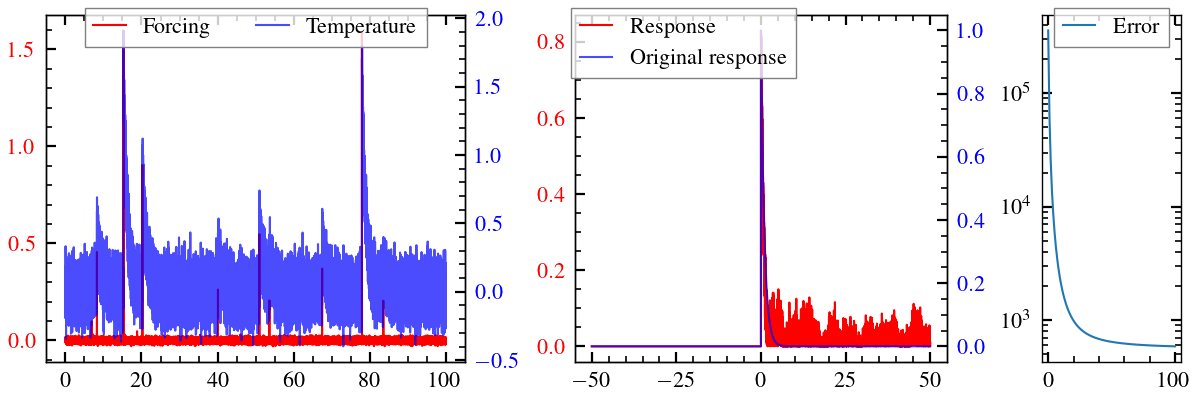
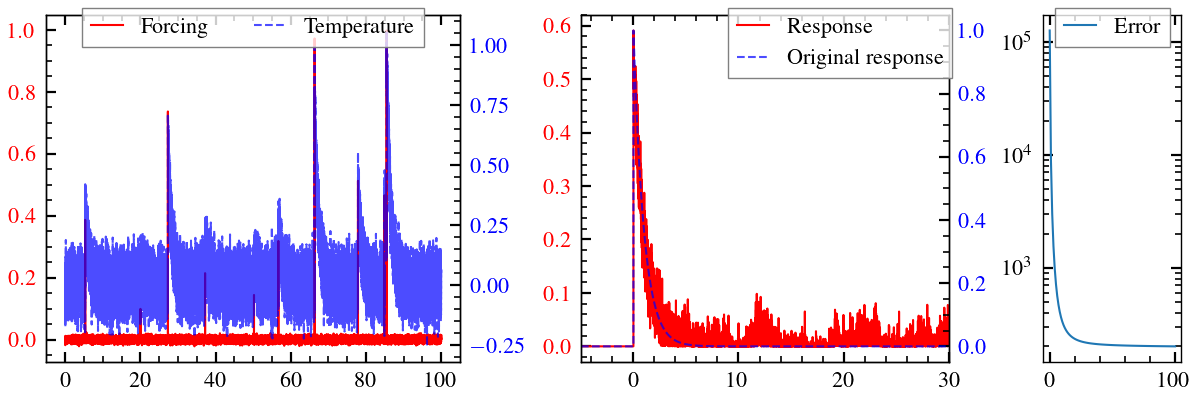
feat: update plots and add out-of-sync experiment

diff --git a/de-verify.md b/de-verify.md
@@ -16,6 +16,8 @@ iteration, to try to mask out what make deconvolving hard.
 ```python
 import de_verify
 exp = de_verify.Experiment
+seed = 20
+show = False
 ```
 
 ## A Clean Run
@@ -24,7 +26,7 @@ For our first experiment, we just create a forcing and corresponding temperature
 convolving with a response function. This of course works well.
 
 ```python
-exp().related_timeseries().deconvolve().combined_view()  # This one is easy!
+exp().related_timeseries(seed=seed).deconvolve().combined_view(save="v1", show=show)  # This one is easy!
 ```
 
 ![v1](https://github.com/engeir/hack-md-notes/raw/main/assets/pic/de-verify/v1.png)
@@ -36,10 +38,10 @@ same range in `y`), suddenly deconvolving become really hard!
 
 ```python
 # When the time series are flipped, it already become quite hard!
-exp().related_timeseries().flip().deconvolve().combined_view()
-exp().related_timeseries().flip().deconvolve(1000).combined_view()
-exp().related_timeseries().flip().vertical_shift(-2).deconvolve(1000).combined_view()
-exp().related_timeseries().flip().deconvolve(1000, scale_factor=10).combined_view()
+exp().related_timeseries(seed=seed).flip().deconvolve().combined_view(save="v2", show=show)
+exp().related_timeseries(seed=seed).flip().deconvolve(1000).combined_view(save="v3", show=show)
+exp().related_timeseries(seed=seed).flip().vertical_shift(-2).deconvolve(1000).combined_view(save="v4", show=show)
+exp().related_timeseries(seed=seed).flip().deconvolve(1000, scale_factor=10).combined_view(save="v5", show=show)
 ```
 
 ![v2](https://github.com/engeir/hack-md-notes/raw/main/assets/pic/de-verify/v2.png)
@@ -58,13 +60,13 @@ value (including the added noise) is now at zero.
 
 ```python
 # This amount of noise is not a big problem!
-exp().related_timeseries().noise(0.2).deconvolve(100).combined_view()
+exp().related_timeseries(seed=seed).noise(0.2).deconvolve(100).combined_view(save="v6", show=show)
 # But, it sure looks like one should have the true equilibrium at zero, and not let the
 # "negative" noise be positive!
-exp().related_timeseries().noise(0.2).set2zero().deconvolve(100).combined_view()
-exp().related_timeseries().noise(0.2).deconvolve(100, scale_factor=10).combined_view()
-exp().related_timeseries().noise(0.2).deconvolve(2000, scale_factor=10).combined_view()
-exp().related_timeseries().noise(0.6).deconvolve(100, scale_factor=10).combined_view()
+exp().related_timeseries(seed=seed).noise(0.2).set2zero().deconvolve(100).combined_view(save="v7", show=show)
+exp().related_timeseries(seed=seed).noise(0.2).deconvolve(100, scale_factor=10).combined_view(save="v8", show=show)
+exp().related_timeseries(seed=seed).noise(0.2).deconvolve(2000, scale_factor=10).combined_view(save="v9", show=show)
+exp().related_timeseries(seed=seed).noise(0.6).deconvolve(100, scale_factor=10).combined_view(save="v10", show=show)
 ```
 
 ![v6](https://github.com/engeir/hack-md-notes/raw/main/assets/pic/de-verify/v6.png)
@@ -82,11 +84,11 @@ If we look more closely at what happens if we shift the time series along the
 
 ```python
 # A simple vertical shift also complicates things!
-exp().related_timeseries().vertical_shift((50, 278)).deconvolve(100).combined_view()
-exp().related_timeseries().vertical_shift((1, 1)).deconvolve(100).combined_view()
-exp().related_timeseries().vertical_shift((1, 1)).deconvolve(1000).combined_view()
-exp().related_timeseries().vertical_shift((1, 1)).deconvolve(1000, scale_factor=10).combined_view()
-exp().related_timeseries().vertical_shift((1, 1)).deconvolve(1000, cutoff=10).combined_view()
+exp().related_timeseries(seed=seed).vertical_shift((50, 278)).deconvolve(100).combined_view(save="v11", show=show)
+exp().related_timeseries(seed=seed).vertical_shift((1, 1)).deconvolve(100).combined_view(save="v12", show=show)
+exp().related_timeseries(seed=seed).vertical_shift((1, 1)).deconvolve(1000).combined_view(save="v13", show=show)
+exp().related_timeseries(seed=seed).vertical_shift((1, 1)).deconvolve(1000, scale_factor=10).combined_view(save="v14", show=show)
+exp().related_timeseries(seed=seed).vertical_shift((1, 1)).deconvolve(1000, cutoff=10).combined_view(save="v15", show=show)
 ```
 
 ![v11](https://github.com/engeir/hack-md-notes/raw/main/assets/pic/de-verify/v11.png)
@@ -101,11 +103,29 @@ Now, what about scaling the pure and clean time series? Both, or just one of the
 is fine, luckily.
 
 ```python
-exp().related_timeseries().scale(10).deconvolve().combined_view()
-exp().related_timeseries().scale((10, 100)).deconvolve().combined_view()
-exp().related_timeseries().scale((100, 35)).deconvolve(1000).combined_view()
+exp().related_timeseries(seed=seed).scale(10).deconvolve().combined_view(save="v16", show=show)
+exp().related_timeseries(seed=seed).scale((10, 100)).deconvolve().combined_view(save="v17", show=show)
+exp().related_timeseries(seed=seed).scale((100, 35)).deconvolve(1000).combined_view(save="v18", show=show)
+exp().related_timeseries(years=100, gamma=10, wide_forcing=True, seed=seed).scale((100, 35)).deconvolve(1000).combined_view(save="v19", show=show)
+exp().related_timeseries(wide_forcing=True, seed=seed).scale((100, 35)).vertical_shift((1, 0)).deconvolve(1000).combined_view(save="v20", show=show)
+exp().related_timeseries(wide_forcing=True, seed=seed).scale((100, 35)).vertical_shift((1, 1)).deconvolve(1000).combined_view(save="v21", show=show)
 ```
 
 ![v16](https://github.com/engeir/hack-md-notes/raw/main/assets/pic/de-verify/v16.png)
 ![v17](https://github.com/engeir/hack-md-notes/raw/main/assets/pic/de-verify/v17.png)
 ![v18](https://github.com/engeir/hack-md-notes/raw/main/assets/pic/de-verify/v18.png)
+![v19](https://github.com/engeir/hack-md-notes/raw/main/assets/pic/de-verify/v19.png)
+![v20](https://github.com/engeir/hack-md-notes/raw/main/assets/pic/de-verify/v20.png)
+![v21](https://github.com/engeir/hack-md-notes/raw/main/assets/pic/de-verify/v21.png)
+
+## Syncing Issues
+
+What if the forcing and temperature signals are without any noise and stationary at
+zero, but they are not in perfect sync. If the below plots, the forcing shown and the
+forcing used to generate the temperature from convolution of the response function are
+almost identical. The difference is that the arrival times are shifted by one single
+index back, forward or nothing at all with equal probability. This has a big effect on
+the estimated response function, especially in the case where the forcing has a decay.
+
+![v22](https://github.com/engeir/hack-md-notes/raw/main/assets/pic/de-verify/v22.png)
+![v23](https://github.com/engeir/hack-md-notes/raw/main/assets/pic/de-verify/v23.png)
